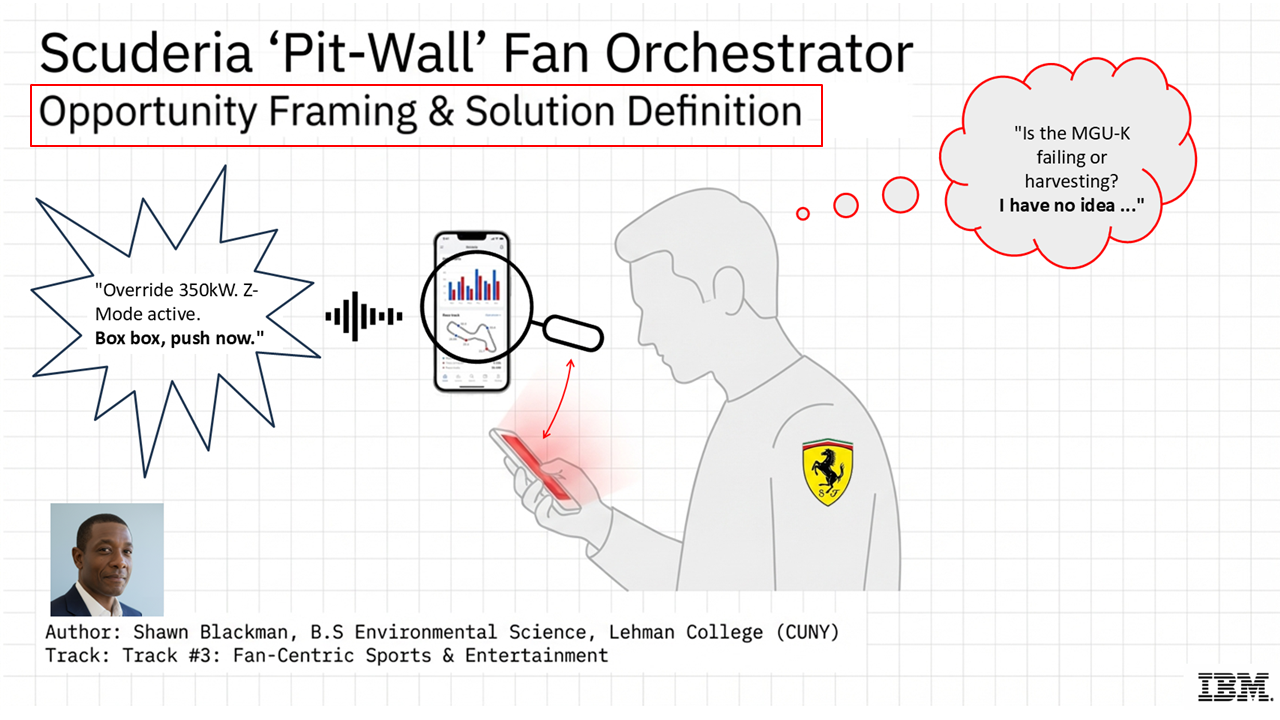
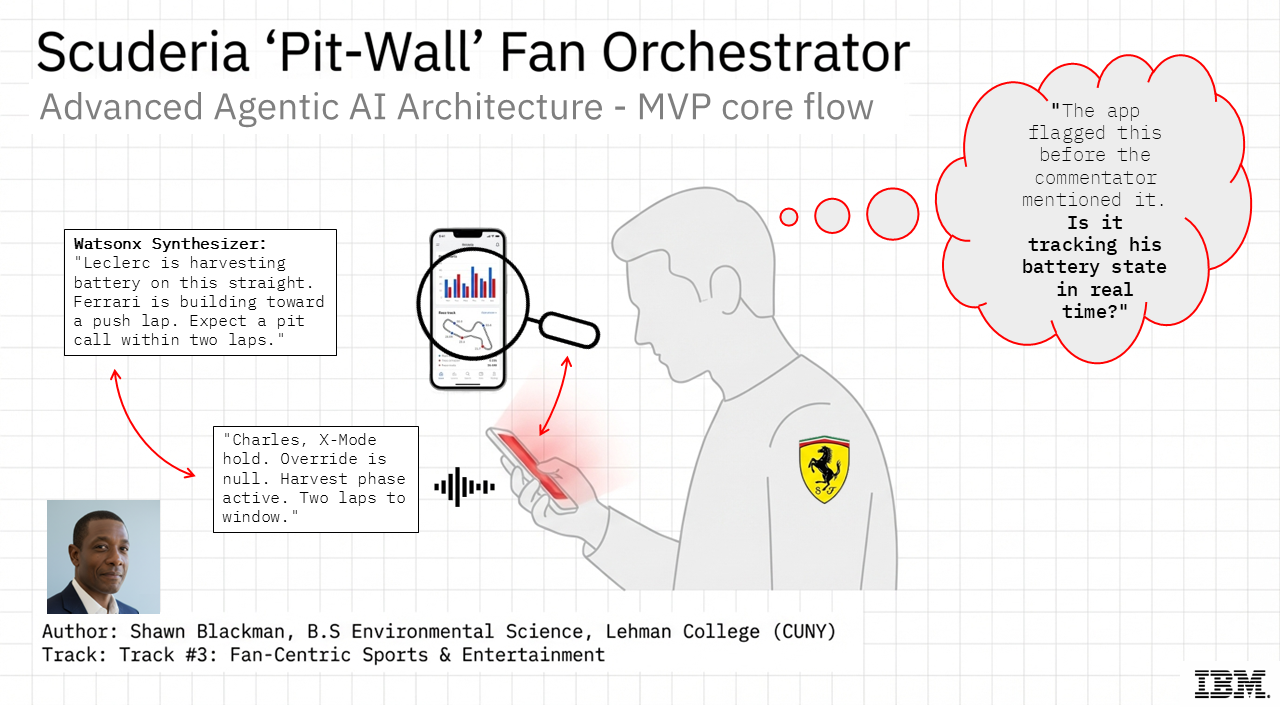
Add trust matrix and governance loop diagrams, update README image references

diff --git a/README.md b/README.md
@@ -22,8 +22,6 @@ This is the **Synthesis Gap**.
 
 ## The Solution
 
-![Dual-State Interface Mockup](assets/ui_mockup.png) 
-
 The Scuderia Pit-Wall Fan Orchestrator is a multi-agent AI companion powered by **IBM watsonx** that:
 
 - Ingests 1.1M live telemetry data points per second via **FastF1**
@@ -33,13 +31,15 @@ The Scuderia Pit-Wall Fan Orchestrator is a multi-agent AI companion powered by 
 - Allows fans to query the system in natural language without looking away from the TV broadcast
 - Enforces proactive governance via **IBM watsonx.governance** to guarantee no confident-wrong output ever reaches the fan
 
+![The Trust Output Matrix — why confident-wrong is an existential threat](assets/trust_output_matrix.png)
+
 > *"Leclerc is harvesting battery on this straight. Ferrari is building toward a push lap. Expect a pit call within two laps."*
 
 ---
 
 ## Architecture
 
-![Agentic Pipeline Architecture](assets/architecture_flow.png)
+![Agentic Pipeline Architecture — corrected with governance layer](assets/architecture_diagram.png)
 
 The system is built across six layers, each mapping to a named component:
 
@@ -53,6 +53,9 @@ The system is built across six layers, each mapping to a named component:
 ```
 
 ### The Governance Layer — Why It Exists
+
+![The Proactive Governance Loop — three trustworthy outcomes guaranteed](assets/governance_loop.png)
+
 
 A confident-wrong answer is categorically more damaging than acknowledged uncertainty.
 
